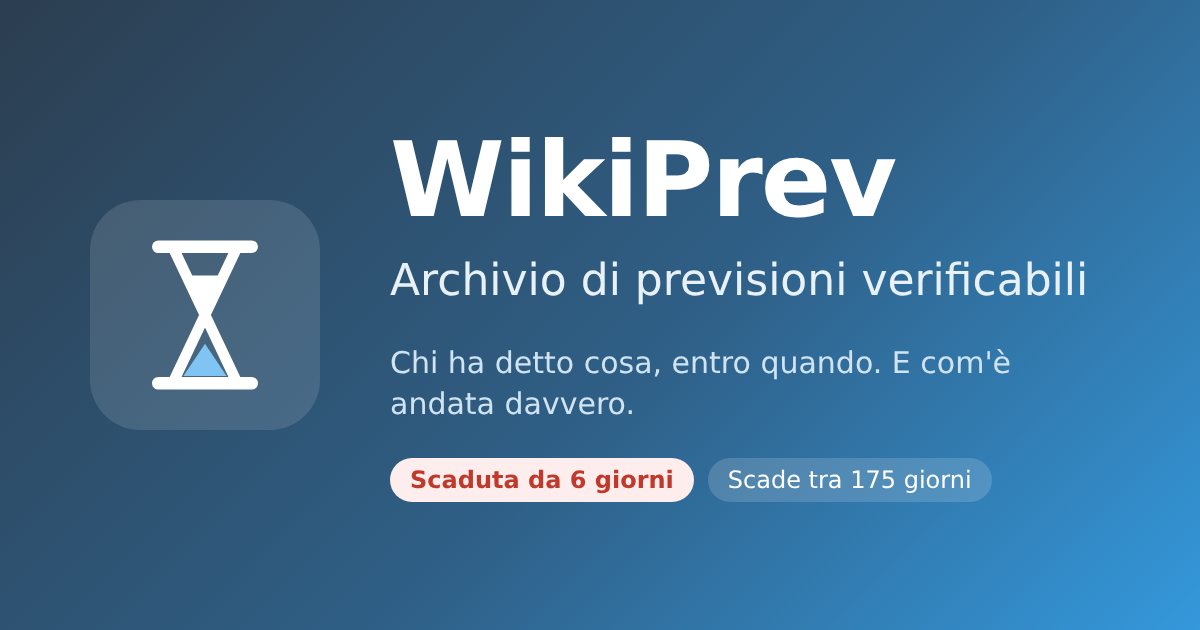
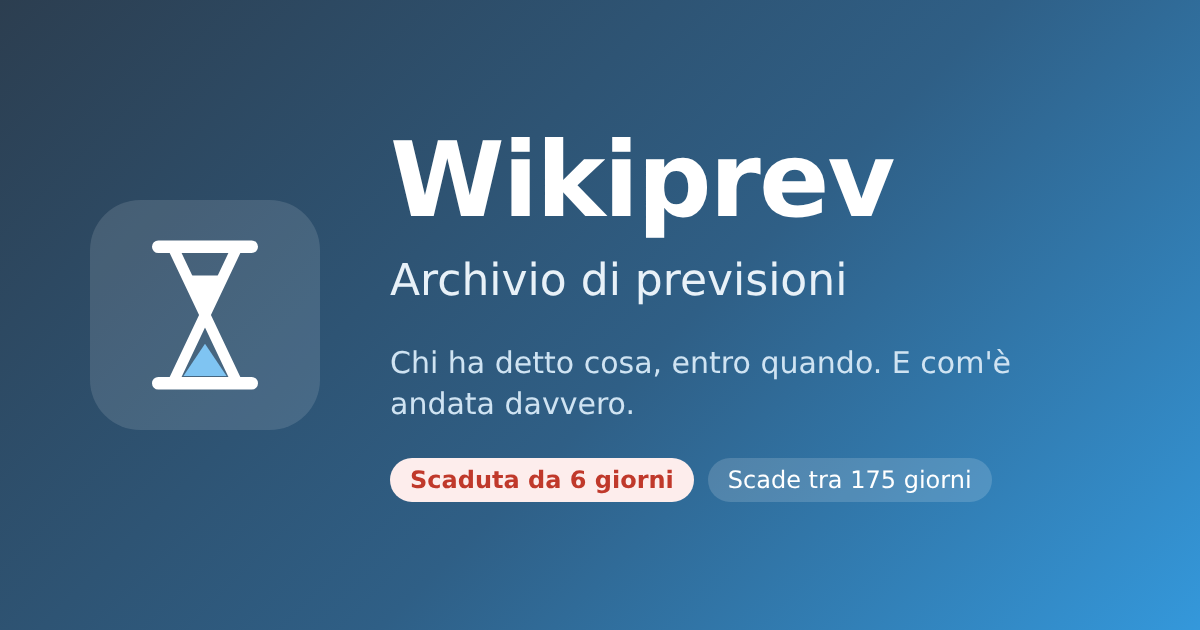
Merge the AI tag into Intelligenza artificiale; one name everywhere
- Migration 0014: tag_aliases table (AI, IA -> Intelligenza artificiale),
  predictions tagged AI moved to Intelligenza artificiale, AI removed;
  tag_id_for resolves synonyms so the duplicate is not created again
- Site ignores old categories once migration 0013 is applied (the old
  'AI' category no longer shows up as a tag)
- 'Wikiprev - Archivio di previsioni' in page title, link preview, logo,
  footer and README; generic preview image redrawn and versioned

Claude-Session: https://claude.ai/code/session_01WTgPjorXQXAtT78Mk68W43

Changed region(s): [[0.5242, 0.2111, 0.6475, 0.3921], [0.7092, 0.4222, 0.925, 0.4825], [0.6783, 0.2413, 0.74, 0.3317]]

diff --git a/index.html b/index.html
@@ -3,31 +3,31 @@
 <head>
     <meta charset="UTF-8">
     <meta name="viewport" content="width=device-width, initial-scale=1.0">
-    <title>WikiPrev - Archivio di previsioni verificabili</title>
+    <title>Wikiprev - Archivio di previsioni</title>
     <meta name="description" content="Chi ha detto cosa, entro quando. Un archivio collaborativo di previsioni di politici, aziende ed esperti, da ricontrollare alla scadenza.">
     <link rel="icon" href="img/favicon.svg" type="image/svg+xml">
 
     <!-- Link previews (Telegram, WhatsApp, Facebook, X...). Image URLs must be absolute. -->
     <meta property="og:type" content="website">
-    <meta property="og:site_name" content="WikiPrev">
+    <meta property="og:site_name" content="Wikiprev">
     <meta property="og:locale" content="it_IT">
     <meta property="og:url" content="https://margitelab.github.io/wikiprev/">
-    <meta property="og:title" content="WikiPrev - Archivio di previsioni verificabili">
+    <meta property="og:title" content="Wikiprev - Archivio di previsioni">
     <meta property="og:description" content="Chi ha detto cosa, entro quando. Un archivio collaborativo di previsioni di politici, aziende ed esperti, da ricontrollare alla scadenza.">
-    <meta property="og:image" content="https://margitelab.github.io/wikiprev/img/anteprima.png">
+    <meta property="og:image" content="https://margitelab.github.io/wikiprev/img/anteprima.png?v=2">
     <meta property="og:image:width" content="1200">
     <meta property="og:image:height" content="630">
-    <meta property="og:image:alt" content="WikiPrev, archivio di previsioni verificabili">
+    <meta property="og:image:alt" content="Wikiprev, archivio di previsioni">
     <meta name="twitter:card" content="summary_large_image">
     <link rel="stylesheet" href="https://cdnjs.cloudflare.com/ajax/libs/font-awesome/6.4.0/css/all.min.css">
-    <link rel="stylesheet" href="css/style.css?v=20261109c">
+    <link rel="stylesheet" href="css/style.css?v=20261109d">
 </head>
 <body>
     <header>
         <nav>
             <a href="./" class="logo" id="home-link" aria-label="Wikiprev, torna alla homepage">
                 <i class="fas fa-hourglass-half" aria-hidden="true"></i>
-                <span>WikiPrev</span>
+                <span>Wikiprev</span>
             </a>
             <ul class="nav-links">
                 <li><a href="./#featured">In evidenza</a></li>
@@ -242,7 +242,7 @@
 
     <footer>
         <div class="footer-content">
-            <p>WikiPrev - Archivio di previsioni verificabili</p>
+            <p>Wikiprev - Archivio di previsioni</p>
             <ul class="footer-links">
                 <li><a href="./#featured">In evidenza</a></li>
                 <li><a href="./#archive">Archivio</a></li>
@@ -254,11 +254,11 @@
     </footer>
 
     <script src="https://cdn.jsdelivr.net/npm/@supabase/supabase-js@2.45.4/dist/umd/supabase.js"></script>
-    <script src="js/config.js?v=20261109c"></script>
-    <script src="js/model.js?v=20261109c"></script>
-    <script src="js/store-local.js?v=20261109c"></script>
-    <script src="js/store-supabase.js?v=20261109c"></script>
-    <script src="js/store.js?v=20261109c"></script>
-    <script src="js/app.js?v=20261109c"></script>
+    <script src="js/config.js?v=20261109d"></script>
+    <script src="js/model.js?v=20261109d"></script>
+    <script src="js/store-local.js?v=20261109d"></script>
+    <script src="js/store-supabase.js?v=20261109d"></script>
+    <script src="js/store.js?v=20261109d"></script>
+    <script src="js/app.js?v=20261109d"></script>
 </body>
 </html>

diff --git a/js/store-supabase.js b/js/store-supabase.js
@@ -21,7 +21,12 @@
         // Old categories, used only while migration 0013 has not been applied.
         var legacyCategories = null;   // { categoryId: { label, icon } }
 
+        // True once tags have an icon column, i.e. migration 0013 has been
+        // applied: from then on old categories are ignored.
+        var categoriesMigrated = false;
+
         async function loadLegacyCategories() {
+            if (categoriesMigrated) return {};
             if (legacyCategories) return legacyCategories;
             var res = await client.from('categories').select('id, label, icon');
             legacyCategories = {};
@@ -76,6 +81,10 @@
                 if (res.error) throw new Error(describeError(res.error));
                 var map = {};
                 res.data.forEach(function (t) { map[t.id] = { label: t.label, icon: t.icon || 'fa-hashtag' }; });
+                if (res.data.some(function (t) { return 'icon' in t; })) {
+                    categoriesMigrated = true;
+                    legacyCategories = {};
+                }
                 var cats = await loadLegacyCategories();
                 Object.keys(cats).forEach(function (cid) {
                     var label = cats[cid].label;

diff --git a/js/app.js b/js/app.js
@@ -94,7 +94,7 @@
         var when = formatInserted(p.createdAt);
         if (!when && !p.createdByName) return el('span');
         var text = (p.createdByName ? 'Caricata da ' + p.createdByName : 'Inserita') + (when ? ' il ' + when : '');
-        return el('span', { className: 'added-by', title: 'Inserimento in WikiPrev' }, [icon('fas fa-user-edit'), ' ' + text]);
+        return el('span', { className: 'added-by', title: 'Inserimento in Wikiprev' }, [icon('fas fa-user-edit'), ' ' + text]);
     }
 
     function formatDate(iso) {

diff --git a/README.md b/README.md
@@ -1,4 +1,4 @@
-# WikiPrev - Archivio di previsioni verificabili
+# Wikiprev - Archivio di previsioni
 
 Una piattaforma per raccogliere previsioni nel tempo e controllarle quando arriva la loro scadenza.
 
@@ -77,6 +77,7 @@ Regole per non perdere dati:
    11. `0011_visit_counter.sql`
    12. `0012_bdi_ai_bonds_2026.sql`
    13. `0013_categories_become_tags.sql`
+   14. `0014_tag_aliases_ai.sql`
 3. Scegli il codice amministratore. Sempre nel SQL Editor esegui, con un codice lungo almeno 12 caratteri scelto da te:
    ```sql
    select public.set_admin_code('il-tuo-codice-segreto');
